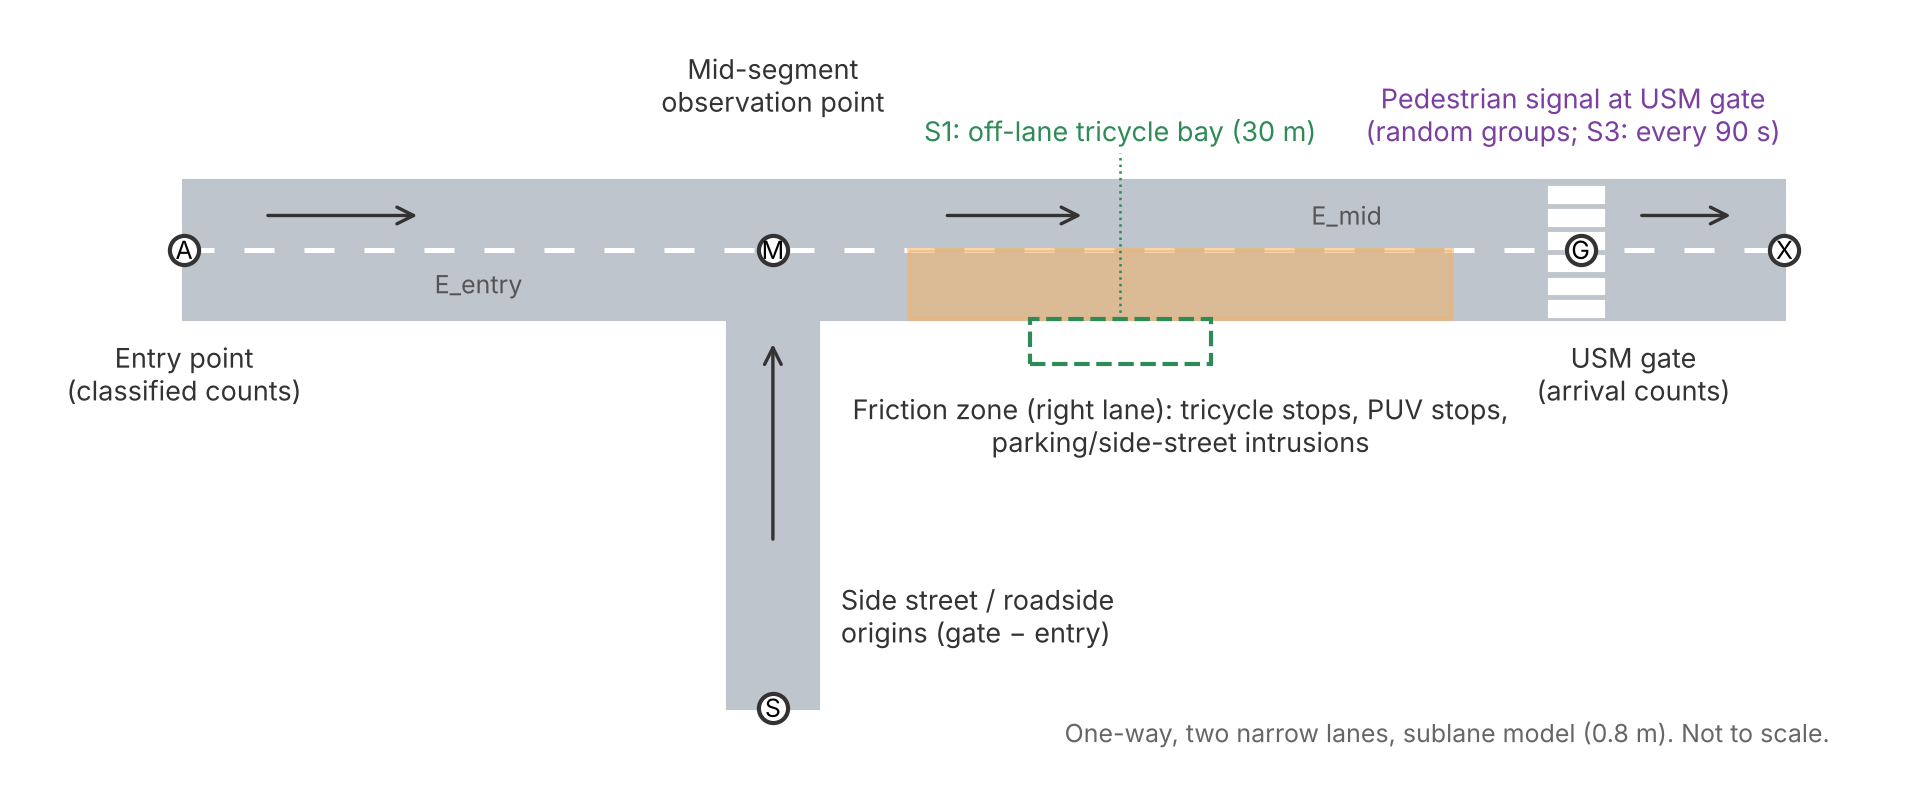
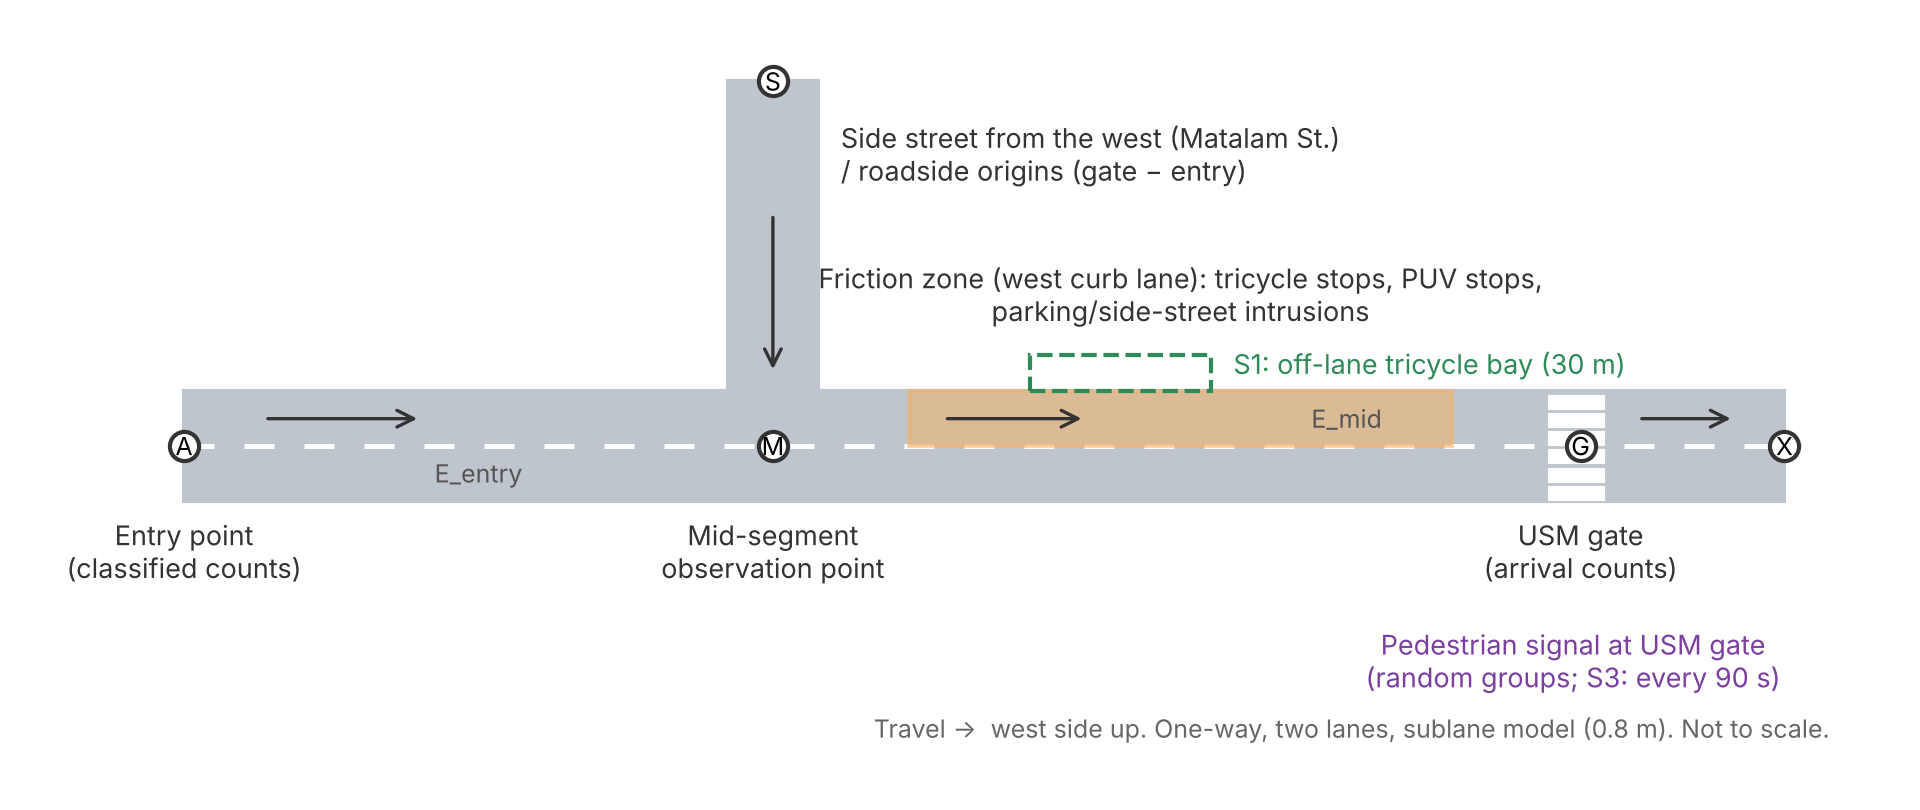
Update README results and network diagram for west-side friction
Claude-Session: https://claude.ai/code/session_01SqnP8rbCUv6yBRyHv6jpMk

diff --git a/README.md b/README.md
@@ -56,17 +56,17 @@ Total vehicular demand is identical in every scenario.
 
 ## Results
 
-Corridor: USM Avenue, 607 m (OpenStreetMap way 4302974), one-way, 2 lanes, 40 km/h. Results are produced automatically by the **Run SUMO simulation** GitHub Action whenever `config.json`, `field_data.json` or `run_bmp.py` changes.
+Corridor: USM Avenue, 607 m (OpenStreetMap way 4302974), one-way, 2 lanes, 40 km/h. Side friction is on the west curb, where the side streets (e.g. Matalam Street) join. Results are produced automatically by the **Run SUMO simulation** GitHub Action whenever `config.json`, `field_data.json` or `run_bmp.py` changes.
 
 Baseline validation: 10 of 12 fifteen-minute gate counts (83%) have GEH < 5 (target ≥ 85%); the two misses are the morning intervals at 07:00 and 07:15, where the observed surge-and-drop is smoother in the model.
 
 | Scenario | Morning time loss (s/veh) | Change | Midday time loss (s/veh) | Change | Morning CO₂ change |
 |---|---|---|---|---|---|
-| S0 Existing conditions | 9.8 | — | 6.8 | — | — |
-| S1 Tricycle loading bay | 8.0 | -18% | 6.2 | -10% | -4% |
-| S2 No-parking enforcement | 6.7 | -31% | 5.5 | -19% | -9% |
-| S3 Controlled pedestrian crossing | 10.0 | +2% | 7.4 | +9% | -1% |
-| S4 Combined (S1+S2+S3) | 4.7 | -52% | 4.9 | -28% | -14% |
+| S0 Existing conditions | 23.3 | — | 12.8 | — | — |
+| S1 Tricycle loading bay | 11.7 | -50% | 8.8 | -31% | -15% |
+| S2 No-parking enforcement | 12.1 | -48% | 7.9 | -38% | -16% |
+| S3 Controlled pedestrian crossing | 20.1 | -14% | 12.1 | -5% | -5% |
+| S4 Combined (S1+S2+S3) | 5.8 | -75% | 6.0 | -53% | -26% |
 
 ![Observed vs simulated gate counts](results/fig_validation.png)
 ![Time loss by scenario](results/fig_time_loss.png)
